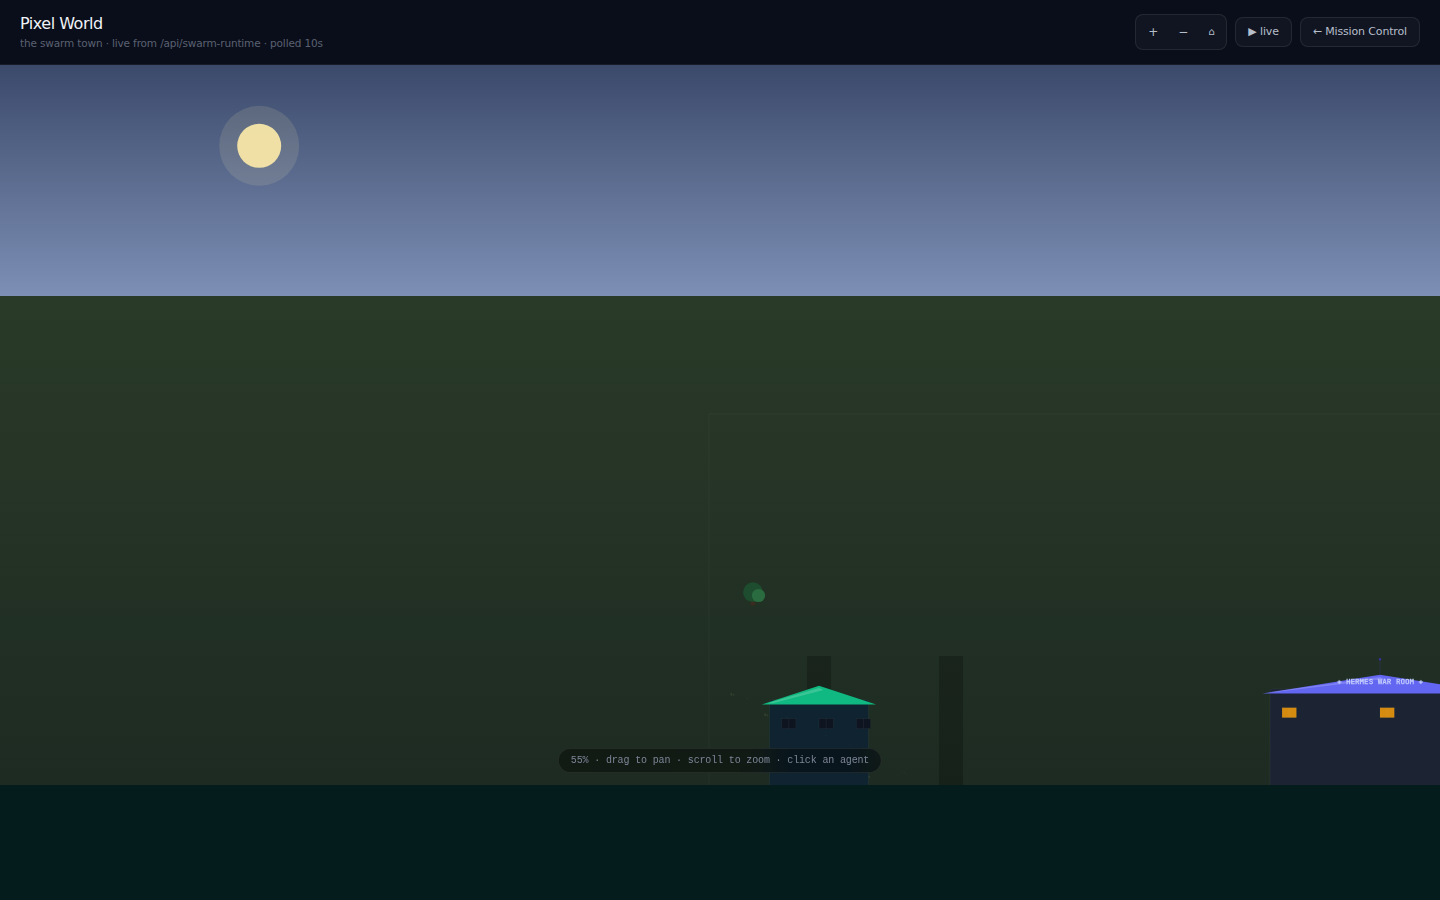
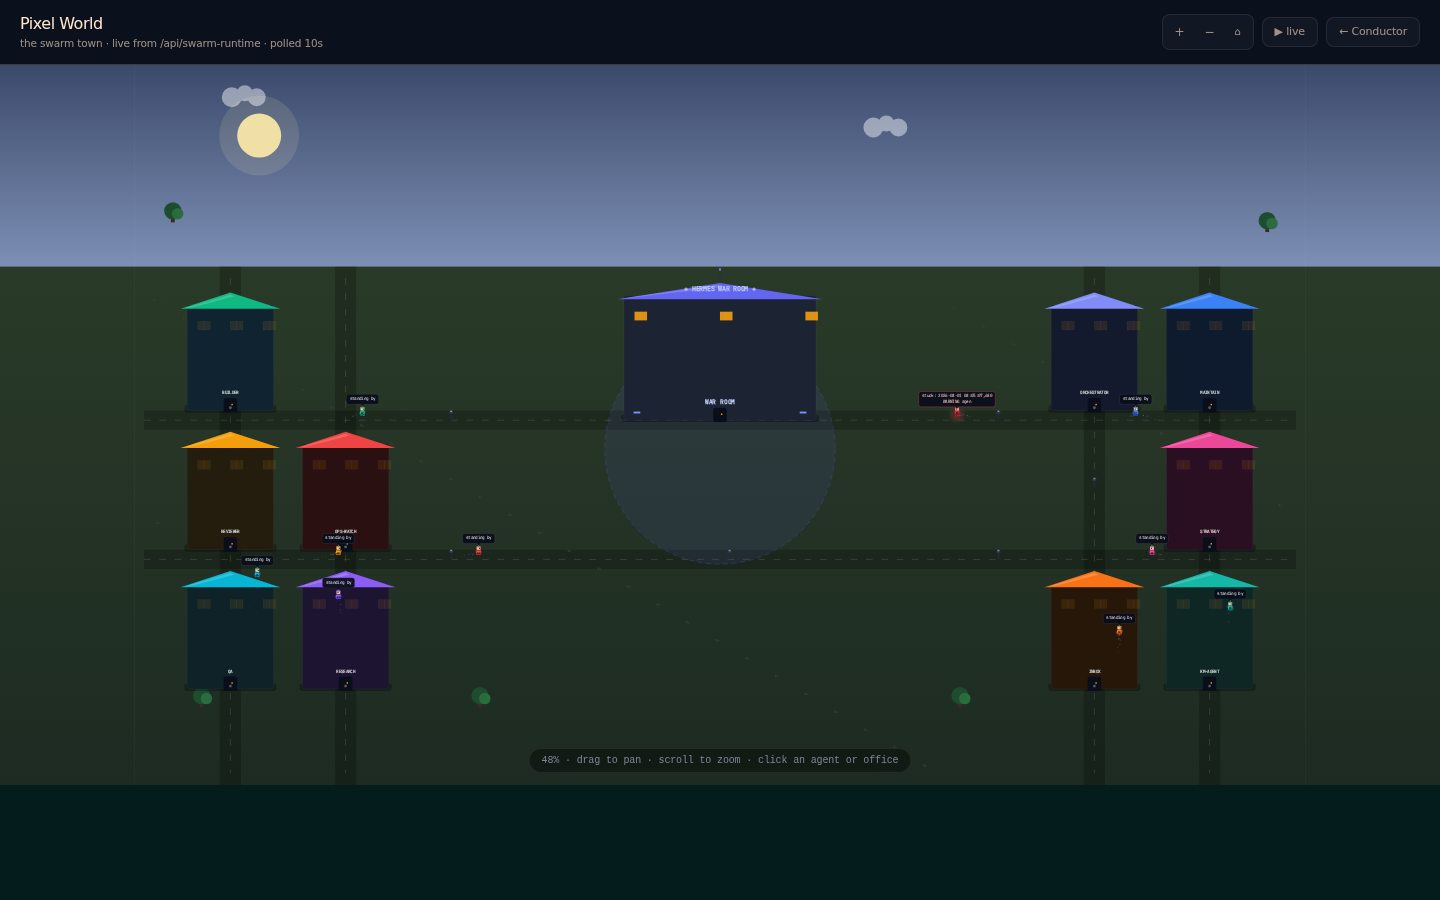
pixel world: worker activity halo (busy/stuck scanability) + idle patrol strolls
- ground glow under busy (worker-color pulse) and stuck (steady red) agents so
  the town reads at a glance as a Monitor surface
- idle agents at their desks now take short patrol strolls between 10s polls,
  so the town never freezes into a static grid; gated on calm (no mission, not
  stuck), returns via desk re-route
- add hexToRgba helper; honor house lint

diff --git a/src/components/mission-control/pixel-world.tsx b/src/components/mission-control/pixel-world.tsx
@@ -133,6 +133,8 @@ type CharState = {
   activeTool: string | null
   statusLabel: string
   errorMsg: string | null
+  // next timestamp when an idle agent may take a short patrol stroll
+  patrolAt: number
 }
 
 // Send a character somewhere. For long trips they follow the roads via
@@ -198,6 +200,28 @@ function drawCharacter(ctx: Ctx, c: CharState, time: number) {
 
   const cx = c.x
   const cy = y
+
+  // activity halo — a soft ground glow so busy/stuck agents are legible at a
+  // glance across the town (Monitor surface: hierarchy over decoration).
+  // Faint for busy, steady red for stuck, nothing for idle so the map reads calm.
+  if (c.stuck) {
+    const g = ctx.createRadialGradient(cx, c.y + 9, 1, cx, c.y + 9, 20)
+    g.addColorStop(0, 'rgba(239,68,68,0.32)')
+    g.addColorStop(1, 'rgba(239,68,68,0)')
+    ctx.fillStyle = g
+    ctx.beginPath()
+    ctx.arc(cx, c.y + 9, 20, 0, Math.PI * 2)
+    ctx.fill()
+  } else if (c.mode === 'work' || c.statusLabel === 'active') {
+    const pulse = 0.22 + 0.10 * Math.sin(time * 0.008)
+    const g = ctx.createRadialGradient(cx, c.y + 9, 1, cx, c.y + 9, 18)
+    g.addColorStop(0, hexToRgba(pal.primary, pulse))
+    g.addColorStop(1, 'rgba(0,0,0,0)')
+    ctx.fillStyle = g
+    ctx.beginPath()
+    ctx.arc(cx, c.y + 9, 18, 0, Math.PI * 2)
+    ctx.fill()
+  }
 
   // shadow
   ctx.fillStyle = 'rgba(0,0,0,0.25)'
@@ -546,6 +570,8 @@ export function PixelWorld({
         activeTool: null,
         statusLabel: 'idle',
         errorMsg: null,
+        // first idle patrol comes soon after the boot standup settles
+        patrolAt: 9000 + Math.random() * 12000,
       }
     })
     // everyone gathers at the plaza once at boot — a "standup"
@@ -758,6 +784,25 @@ export function PixelWorld({
         // expire bubbles
         if (c.bubbleUntil < now && !c.stuck) {
           c.bubble = c.statusLabel === 'active' ? 'working' : 'standing by'
+        }
+
+        // idle patrol — after resting at their desk for a while, agents take a
+        // short stroll in front of the office so the town never freezes into a
+        // static grid between 10s polls. On the road they read as alive; back
+        // at the desk the patrol timer starts over. Only when calm (no mission,
+        // not stuck) so behavior and mission-gathers stay authoritative.
+        if (!missionRunningRef.current && !c.stuck && c.mode === 'idle' && c.route === null) {
+          const desk = DESK_BY_WORKER[c.workerId]
+          if (desk) {
+            if (now > c.patrolAt && distTo(c, desk.x, desk.y) < 120) {
+              setDestination(c, desk.x + (Math.random() * 140 - 30), desk.y + (Math.random() * 42 + 6))
+              c.patrolAt = now + 18000 + Math.random() * 15000
+            } else if (now - c.patrolAt > 45000) {
+              // long-quiet baseline: nudge the timer so a patrol never missed
+              // by a poll keeps stretching activity
+              c.patrolAt = now + 8000 + Math.random() * 18000
+            }
+          }
         }
 
         // character-attached particles: dust puffs while walking, colored
@@ -1491,6 +1536,11 @@ function mixColor(a: string, b: string, t: number): string {
 function hexToRgb(hex: string): { r: number; g: number; b: number } {
   const n = parseInt(hex.replace('#', ''), 16)
   return { r: (n >> 16) & 255, g: (n >> 8) & 255, b: n & 255 }
+}
+
+function hexToRgba(hex: string, a: number): string {
+  const { r, g, b } = hexToRgb(hex)
+  return `rgba(${r},${g},${b},${a})`
 }
 
 // ── easing / text helpers ───────────────────────────────────────────────────
